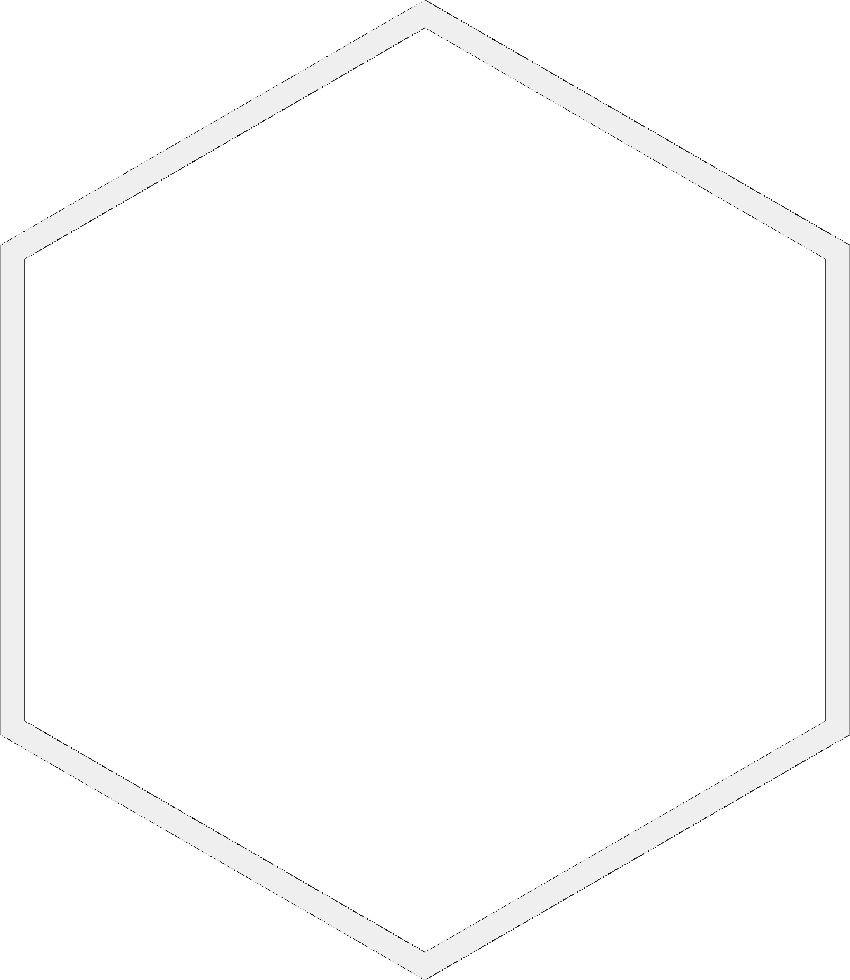
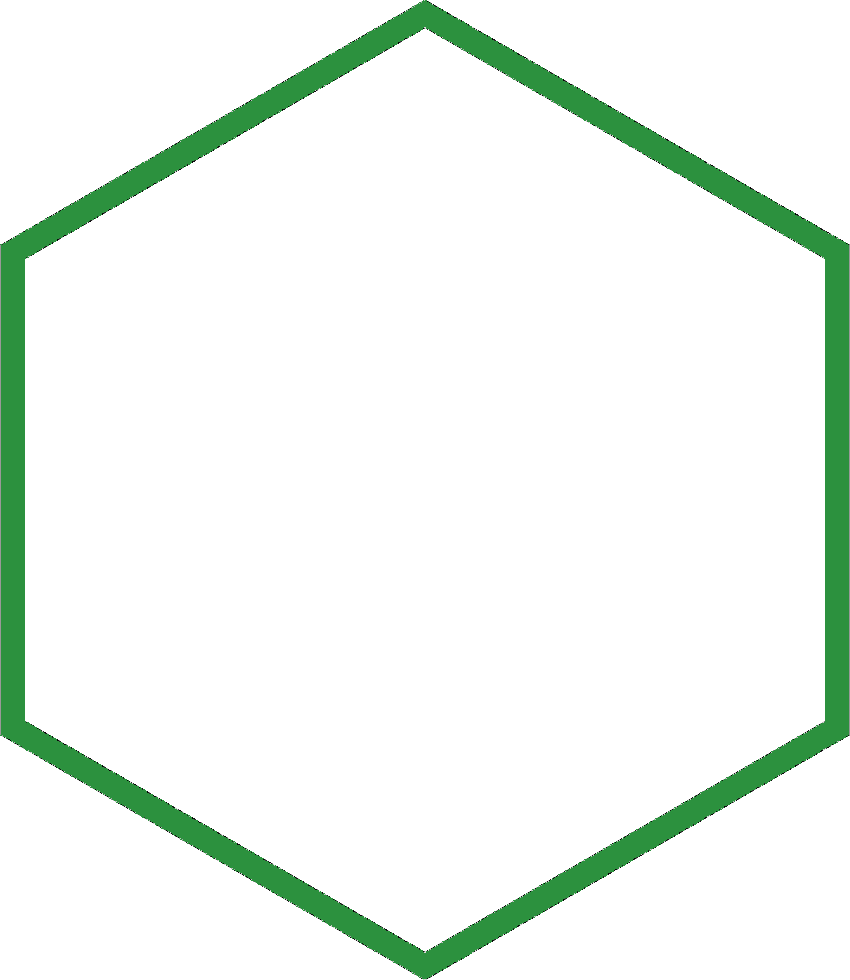
UI Board with hover over fieelds

Changed region(s): [[0.0, 0.0, 1.0, 1.0]]

diff --git a/src/ui/UiBoard.py b/src/ui/UiBoard.py
@@ -1,0 +1,84 @@
+
+from src.obj.BoardField import BoardField
+from PyQt5.QtCore import QEvent
+from PyQt5 import QtWidgets
+from PyQt5.QtGui import QPixmap
+
+
+class UiBoard(QtWidgets.QWidget):
+    """UI part \n
+    represent full board with all fields and their attributes"""
+
+    fields = []
+
+    def __init__(self, parent=None):
+        super().__init__(parent)
+
+        self.resize(1000, 800)
+
+        # dimension must be multiplication of 4
+        self.field_dimension = 76
+        self.board_width = 800
+        self.board_height = int(
+            9 * self.field_dimension * 0.75 + self.field_dimension * 0.25)
+
+        self.fields_in_row = [5, 6, 7, 8, 9, 8, 7, 6, 5]
+
+        self.create_board_frame()
+
+        self.draw_raws()
+
+        # print(len(self.fields[0]))
+
+    def create_board_frame(self):
+
+        self.board_frame = QtWidgets.QFrame(self)
+        self.board_frame.setFrameShape(QtWidgets.QFrame.StyledPanel)
+        self.board_frame.setGeometry(
+            100, 100, self.board_width, self.board_height)
+
+    def create_board_field(self, x, y, row_tilt):
+
+        field = QtWidgets.QLabel(self.board_frame)
+        field.move(row_tilt+x, y)
+        field.setFixedSize(self.field_dimension, self.field_dimension)
+        field.setStyleSheet("padding : 1px;")
+        field.installEventFilter(self)
+        image = QPixmap("hex.png")
+        field.setPixmap(image)
+        field.setScaledContents(True)
+        field.show()
+        return field
+
+    def eventFilter(self, object, event):
+        image = QPixmap("hex.png")
+        image_hover = QPixmap("hex_clicked.png")
+        if event.type() == QEvent.Enter:
+            object.setPixmap(image_hover)
+            print(object.objectName())
+            return True
+        elif event.type() == QEvent.Leave:
+            object.setPixmap(image)
+        return False
+
+    def draw_raws(self):
+        row_number = 0
+
+        for fields in self.fields_in_row:
+            row = []
+            x_cord = 0
+            y_cord = int(
+                row_number * self.field_dimension * 0.75)
+            row_tilt = int(
+                (self.board_width - self.field_dimension * fields) * 0.5)
+
+            for x in range(fields):
+                field_label = self.create_board_field(x_cord, y_cord, row_tilt)
+                cords = f"{row_number},{x}"
+                field_label.setObjectName("fl_"+cords)
+                new_field = BoardField(x_cord, y_cord, field_label)
+                row.append(new_field)
+                x_cord += self.field_dimension
+
+            self.fields.append(row)
+            row_number += 1

diff --git a/main.py b/main.py
@@ -1,82 +1,12 @@
-import random
 import sys
 
-from src.obj.BoardField import BoardField
-from PyQt5.QtCore import Qt, QEvent
-from PyQt5 import QtCore, QtWidgets
-from PyQt5.QtGui import QPixmap
-
-
-class Board(QtWidgets.QWidget):
-
-    fields = []
-
-    def __init__(self, parent=None):
-        super().__init__(parent)
-
-        self.resize(1000, 800)
-
-        # dimension must be multiplication of 4
-        self.field_dimension = 76
-        self.board_width = 800
-        self.board_height = int(
-            9 * self.field_dimension * 0.75 + self.field_dimension * 0.25)
-
-        self.fields_in_row = [5, 6, 7, 8, 9, 8, 7, 6, 5]
-
-        self.create_board_frame()
-
-        self.draw_raws()
-
-        # print(len(self.fields[0]))
-
-    def create_board_frame(self):
-
-        self.board_frame = QtWidgets.QFrame(self)
-        self.board_frame.setFrameShape(QtWidgets.QFrame.StyledPanel)
-        self.board_frame.setGeometry(
-            100, 100, self.board_width, self.board_height)
-
-    def create_board_field(self, x, y, row_tilt):
-
-        field = QtWidgets.QLabel(self.board_frame)
-        field.move(row_tilt+x, y)
-        field.setFixedSize(self.field_dimension, self.field_dimension)
-        field.setStyleSheet("padding : 1px;")
-        image = QPixmap("hex.png")
-        image_clicked = QPixmap("hex.png")
-        field.setPixmap(image)
-        field.setScaledContents(True)
-        field.clicked.connect(field.setPixmap(image_clicked))
-        field.show()
-
-        return field
-
-    def draw_raws(self):
-        row_number = 0
-
-        for fields in self.fields_in_row:
-            row = []
-            x_cord = 0
-            y_cord = int(
-                row_number * self.field_dimension * 0.75)
-            row_tilt = int(
-                (self.board_width - self.field_dimension * fields) * 0.5)
-
-            for x in range(fields):
-                field_label = self.create_board_field(x_cord, y_cord, row_tilt)
-                new_field = BoardField(x_cord, y_cord, field_label)
-                row.append(new_field)
-                x_cord += self.field_dimension
-
-            self.fields.append(row)
-
-            row_number += 1
+from src.ui.UiBoard import UiBoard
+from PyQt5 import QtWidgets
 
 
 def main():
     app = QtWidgets.QApplication(sys.argv)
-    b = Board()
+    b = UiBoard()
     b.show()
     sys.exit(app.exec())
 
